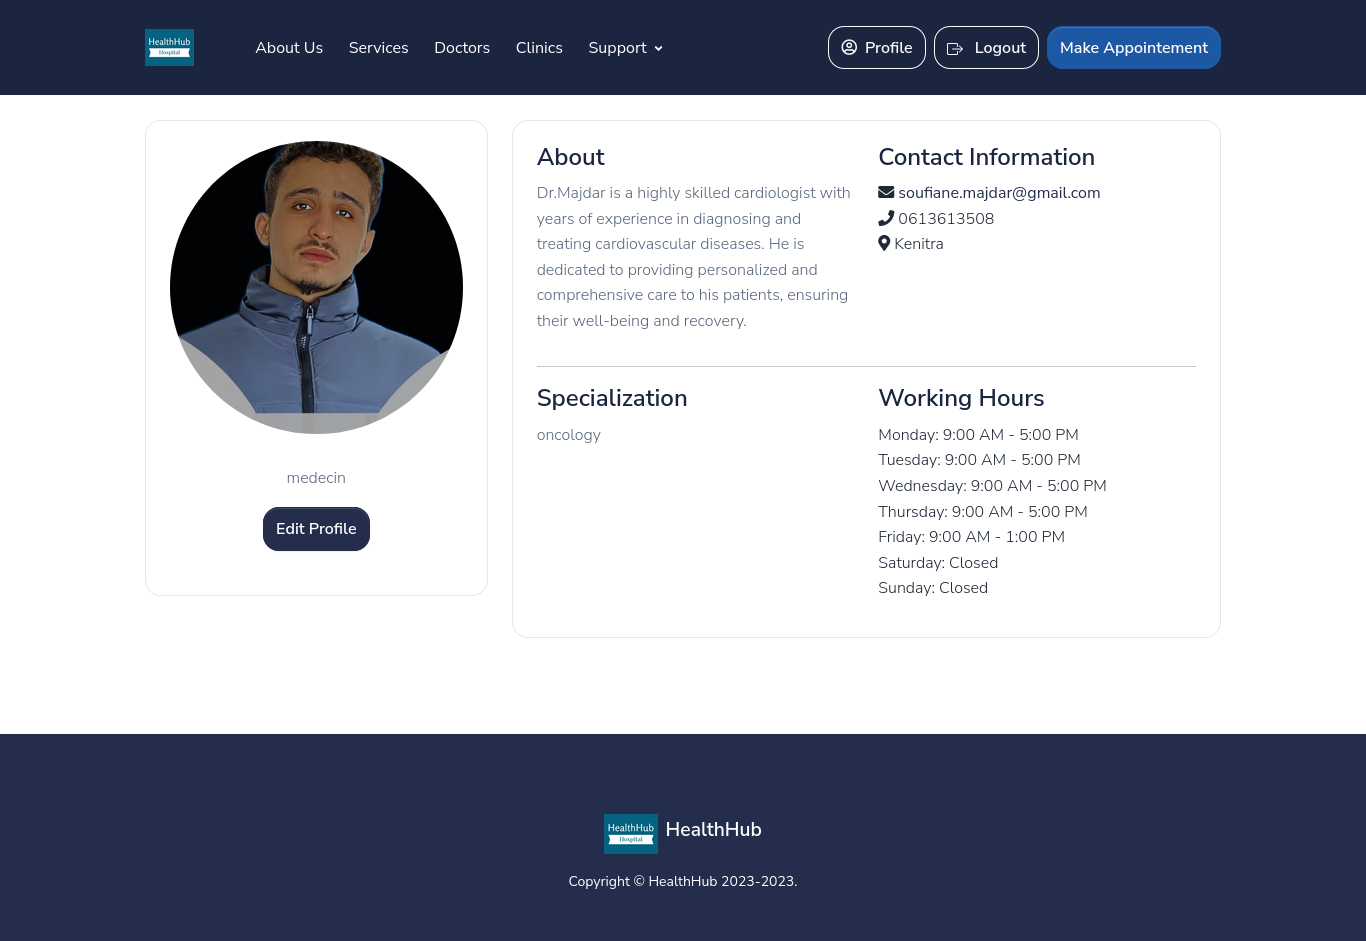
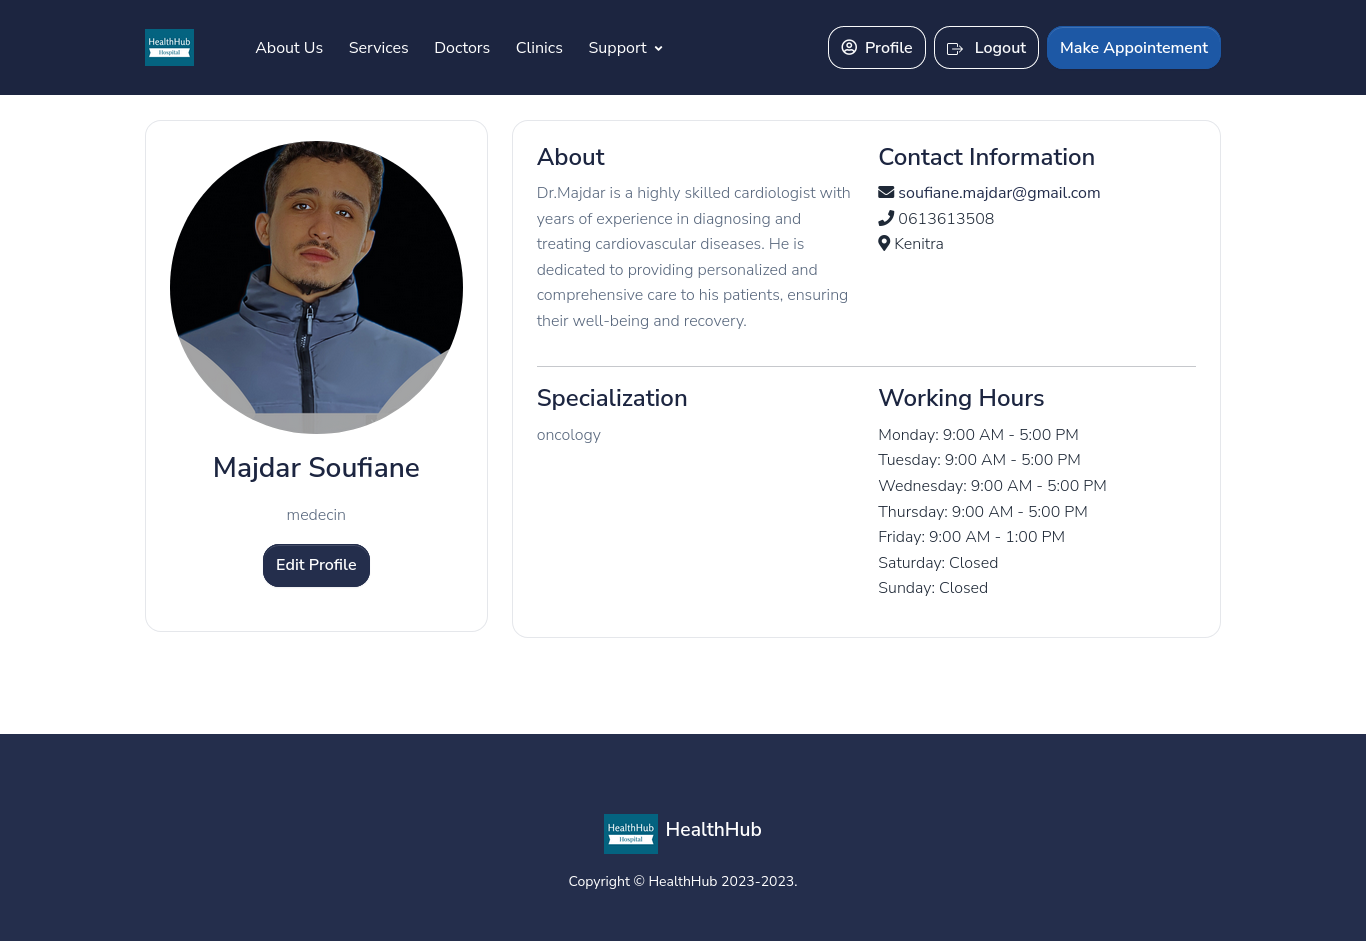
new update

Changed region(s): [[0.1537, 0.4931, 0.3075, 0.6472]]

diff --git a/templates/users/profile.html b/templates/users/profile.html
@@ -19,7 +19,7 @@
               alt="Avatar"
             />
             {% endif %}
-            <h3 class="mb-3">{{ user_info.fName }} {{ user_info.lName }}</h3>
+            <h3 class="mb-3">{{ user_info.prenom }} {{ user_info.nom }}</h3>
             <p class="text-muted">{{ user_info.role }}</p>
             <a href="#" class="btn btn-primary btn-block mb-4">Edit Profile</a>
           </div>
